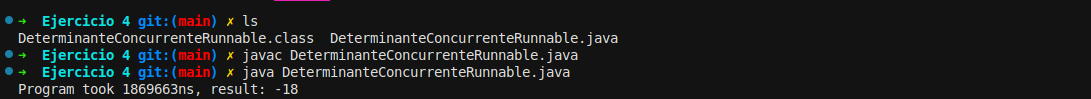
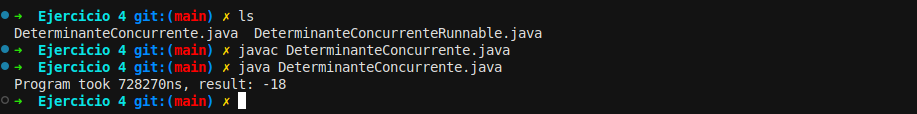
ya

Changed region(s): [[0.0, 0.0909, 0.6107, 0.9697], [0.2443, 0.0, 0.3053, 0.0303]]

diff --git a/Practicas/Practica01/Programas/Ejercicio 4/DeterminanteConcurrente.java b/Practicas/Practica01/Programas/Ejercicio 4/DeterminanteConcurrente.java
@@ -1,0 +1,59 @@
+package unam.fc.concurrent.practica1;
+/*	Programa 10: Programa para obtener el determinante de una matriz de 3x3
+ * 	Es más paralelizable, pero nos benefician en el tiempo de ejecucon utilizar hilos?
+*/
+
+public class DeterminanteConcurrente extends Thread{
+    static int determinante;
+    static int n_prueba = 3;
+    static int matriz_prueba[][] = { { 1, 2, 2 }, { 1, 0, -2 }, { 3, -1, 1 }};
+    int num1, num2, num3, partial;
+    
+    public DeterminanteConcurrente(int num1, int num2, int num3) {
+		this.num1 = num1;
+		this.num2 = num2;
+		this.num3 = num3;
+	}
+    
+    public static int determinanteMatriz3x3(int matriz[][], int n_prueba) {
+        int result = 0;
+        DeterminanteConcurrente thr1 = new DeterminanteConcurrente(matriz[0][0], matriz[1][1], matriz[2][2]);
+        DeterminanteConcurrente thr2 = new DeterminanteConcurrente(matriz[1][0], matriz[2][1], matriz[0][2]);
+        DeterminanteConcurrente thr3 = new DeterminanteConcurrente(matriz[2][0], matriz[0][1], matriz[1][2]);
+        DeterminanteConcurrente thr4 = new DeterminanteConcurrente(matriz[2][0], matriz[1][1], matriz[0][2]);
+        DeterminanteConcurrente thr5 = new DeterminanteConcurrente(matriz[1][0], matriz[0][1], matriz[2][2]);
+        DeterminanteConcurrente thr6 = new DeterminanteConcurrente(matriz[0][0], matriz[2][1], matriz[1][2]);
+        thr1.start();
+		thr2.start();
+		thr3.start();
+		thr4.start();
+		thr5.start();
+		thr6.start();
+        try{
+			thr1.join();
+			thr2.join();
+			thr3.join();
+			thr4.join();
+			thr5.join();
+			thr6.join();
+		}catch(InterruptedException e) {}
+        result = thr1.partial + thr2.partial + thr3.partial - thr4.partial - thr5.partial - thr6.partial;
+       
+        return result;
+    }
+    
+    public void run(){
+    	this.partial = this.num1 * this.num2 * this.num3;
+    }
+
+	public static void main(String[] args) {
+		// TODO Auto-generated method stub
+		long startTime = System.nanoTime();
+		determinante = determinanteMatriz3x3(matriz_prueba, n_prueba);
+		long endTime = System.nanoTime();
+        System.out.println("Program took " +
+                (endTime - startTime) + "ns, result: " + determinante) ;
+
+	}
+
+}

diff --git a/Practicas/Practica01/ParteTeorica/sections/Cuerpo.tex b/Practicas/Practica01/ParteTeorica/sections/Cuerpo.tex
@@ -107,7 +107,7 @@ Tomando en cuenta los argumentos anteriores, decimos que a pesar de que la paral
     Vamos a calcular la Ley de Amdahl en base a nuestros resultados, donde obtuvimos que DeterminanteConcurrente tardó 1,949,855 ns y el secuencial sólo 6,961 ns, con lo cuál
     podemos ver el speedup de la Ley de Amdahl:
 
-    \[S = \frac{T_s}{T_p}=\frac{6961}{1949855}=0.00357\]
+    \[S = \frac{T_s}{T_p}=\frac{6961}{728270}=0.0095582\]
 
     Por lo que el speedu es menor a 1, lo cual significa que la versión concurrente es mucho peor o es más lenta que la secuencial, el por qué de esto es porque tenemos en el concurrente la creación de 6 hilos, por lo que esto es un proceso el cual a la computadora le lleva su tiempo hacerlo. Ahora, si vemos el secuencial, este tiene unas operaciones sobre una matriz de 3x3 que no representan gran costo computacional, en este caso entonces la creación de hilos sí es significativa para nuestro programa.
     Al final, también tenemos la gestión del join, el cual también representa un costo que a este nivel sí es significativo.
@@ -119,12 +119,12 @@ Tomando en cuenta los argumentos anteriores, decimos que a pesar de que la paral
 
     \begin{figure}[h]
         \centering
-        \includegraphics[width=0.8\textwidth]{resources/Ej8_4.png.png}
+        \includegraphics[width=0.8\textwidth]{resources/Ej8_4.png}
     \end{figure}
 
     \begin{figure}[h]
         \centering
-        \includegraphics[width=0.8\textwidth]{resources/Ej8_5.png.png}
+        \includegraphics[width=0.8\textwidth]{resources/Ej8_5.png}
     \end{figure}
 
     \hfill    
